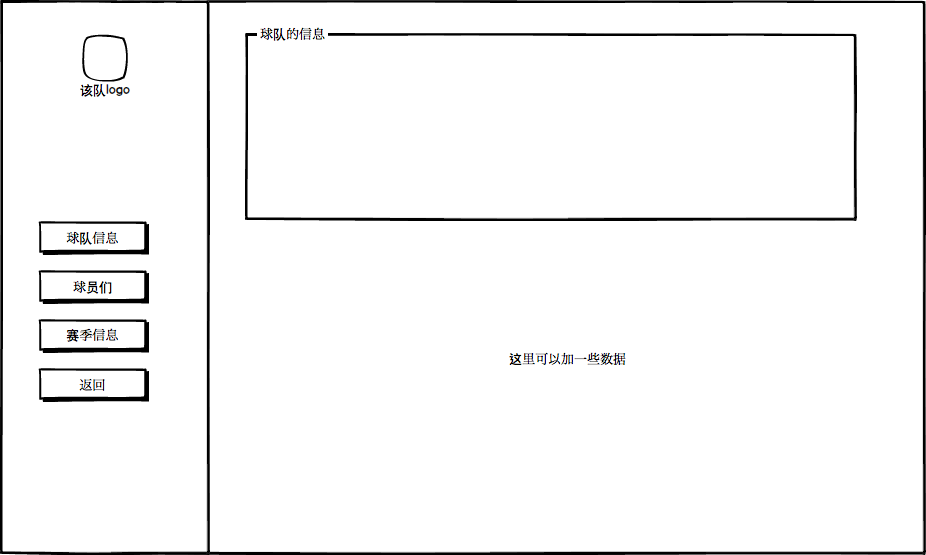
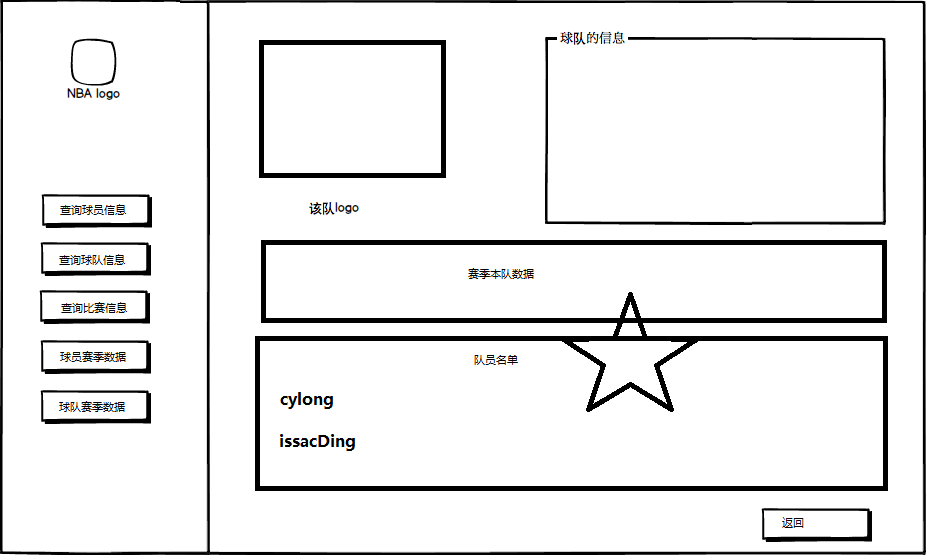
web原型

diff --git a/html原型/gameInfo_detail.html b/html原型/gameInfo_detail.html
@@ -1,0 +1,22 @@
+<!DOCTYPE html PUBLIC "-//W3C//DTD XHTML 1.0 Transitional//EN" "http://www.w3.org/TR/xhtml1/DTD/xhtml1-transitional.dtd">
+<html xmlns="http://www.w3.org/1999/xhtml">
+<head>
+<meta http-equiv="Content-Type" content="text/html; charset=utf-8" />
+<title>无标题文档</title>
+</head>
+
+<body>
+<img src="../图/具体比赛信息.png" width="926" height="555" usemap="#Map" border="0" />
+<map name="Map" id="Map">
+  <area shape="rect" coords="753,503,888,547" href="javascript:history.go(-1)" target="_self" />
+  <area shape="rect" coords="238,23,365,63" href="teamInfo_detail.html" />
+  <area shape="rect" coords="264,302,388,352" href="teamInfo_detail.html" />
+  <area shape="rect" coords="231,83,328,150" href="playerInfo_detail.html" />
+  <area shape="rect" coords="34,188,170,231" href="playerInfo_index.html" />
+  <area shape="rect" coords="32,238,162,280" href="teamInfo_index.html" />
+  <area shape="rect" coords="36,285,170,331" href="gameInfo_index.html" />
+  <area shape="rect" coords="31,338,159,377" href="playerSeason.html" />
+  <area shape="rect" coords="37,385,179,433" href="teamSeason.html" />
+</map>
+</body>
+</html>

diff --git a/html原型/teamInfo_detail.html b/html原型/teamInfo_detail.html
@@ -1,0 +1,20 @@
+<!DOCTYPE html PUBLIC "-//W3C//DTD XHTML 1.0 Transitional//EN" "http://www.w3.org/TR/xhtml1/DTD/xhtml1-transitional.dtd">
+<html xmlns="http://www.w3.org/1999/xhtml">
+<head>
+<meta http-equiv="Content-Type" content="text/html; charset=utf-8" />
+<title>无标题文档</title>
+</head>
+
+<body>
+<img src="../图/具体球队信息.png" width="926" height="555" usemap="#Map" border="0" />
+<map name="Map" id="Map">
+  <area shape="rect" coords="753,506,883,544" href="javascript:history.go(-1)" target="_self" />
+  <area shape="rect" coords="272,384,377,457" href="playerInfo_detail.html" />
+  <area shape="rect" coords="28,187,169,231" href="playerInfo_index.html" />
+  <area shape="rect" coords="29,234,168,279" href="teamInfo_index.html" />
+  <area shape="rect" coords="28,286,183,329" href="gameInfo_index.html" />
+  <area shape="rect" coords="32,338,175,380" href="playerSeason.html" />
+  <area shape="rect" coords="21,385,169,441" href="teamSeason.html" />
+</map>
+</body>
+</html>

diff --git a/html原型/playerInfo_detail.html b/html原型/playerInfo_detail.html
@@ -1,0 +1,19 @@
+<!DOCTYPE html PUBLIC "-//W3C//DTD XHTML 1.0 Transitional//EN" "http://www.w3.org/TR/xhtml1/DTD/xhtml1-transitional.dtd">
+<html xmlns="http://www.w3.org/1999/xhtml">
+<head>
+<meta http-equiv="Content-Type" content="text/html; charset=utf-8" />
+<title>无标题文档</title>
+</head>
+
+<body>
+<img src="../图/具体球员信息.png" width="926" height="555" usemap="#Map" border="0" />
+<map name="Map" id="Map">
+  <area shape="rect" coords="755,493,870,532" href="javascript:history.go(-1)" target="_self" />
+  <area shape="rect" coords="44,225,165,270" href="playerInfo_index.html" />
+  <area shape="rect" coords="41,276,164,321" href="teamInfo_index.html" />
+  <area shape="rect" coords="39,327,187,366" href="gameInfo_index.html" />
+  <area shape="rect" coords="37,375,173,418" href="playerSeason.html" />
+  <area shape="rect" coords="39,427,175,466" href="teamSeason.html" />
+</map>
+</body>
+</html>

diff --git a/html原型/gameInfo_index.html b/html原型/gameInfo_index.html
@@ -1,0 +1,19 @@
+<!DOCTYPE html PUBLIC "-//W3C//DTD XHTML 1.0 Transitional//EN" "http://www.w3.org/TR/xhtml1/DTD/xhtml1-transitional.dtd">
+<html xmlns="http://www.w3.org/1999/xhtml">
+<head>
+<meta http-equiv="Content-Type" content="text/html; charset=utf-8" />
+<title>无标题文档</title>
+</head>
+
+<body>
+<img src="../图/比赛信息.png" width="926" height="555" usemap="#Map" border="0" />
+<map name="Map" id="Map">
+  <area shape="rect" coords="219,144,844,306" href="gameInfo_detail.html" />
+  <area shape="rect" coords="32,191,164,235" href="playerInfo_index.html" />
+  <area shape="rect" coords="28,237,164,281" href="teamInfo_index.html" />
+  <area shape="rect" coords="28,286,166,335" href="gameInfo_index.html" />
+  <area shape="rect" coords="31,340,165,382" href="playerSeason.html" />
+  <area shape="rect" coords="32,385,161,432" href="teamSeason.html" />
+</map>
+</body>
+</html>

diff --git a/html原型/teamSeason.html b/html原型/teamSeason.html
@@ -1,0 +1,19 @@
+<!DOCTYPE html PUBLIC "-//W3C//DTD XHTML 1.0 Transitional//EN" "http://www.w3.org/TR/xhtml1/DTD/xhtml1-transitional.dtd">
+<html xmlns="http://www.w3.org/1999/xhtml">
+<head>
+<meta http-equiv="Content-Type" content="text/html; charset=utf-8" />
+<title>无标题文档</title>
+</head>
+
+<body>
+<img src="../图/球队数据.png" width="926" height="555" usemap="#Map" border="0" />
+<map name="Map" id="Map">
+  <area shape="rect" coords="243,140,811,272" href="teamInfo_detail.html" />
+  <area shape="rect" coords="28,186,179,232" href="playerInfo_index.html" />
+  <area shape="rect" coords="29,236,174,276" href="teamInfo_index.html" />
+  <area shape="rect" coords="22,283,173,329" href="gameInfo_index.html" />
+  <area shape="rect" coords="25,333,172,376" href="playerSeason.html" />
+  <area shape="rect" coords="32,384,184,431" href="teamSeason.html" />
+</map>
+</body>
+</html>

diff --git a/html原型/teamInfo_index.html b/html原型/teamInfo_index.html
@@ -1,0 +1,19 @@
+<!DOCTYPE html PUBLIC "-//W3C//DTD XHTML 1.0 Transitional//EN" "http://www.w3.org/TR/xhtml1/DTD/xhtml1-transitional.dtd">
+<html xmlns="http://www.w3.org/1999/xhtml">
+<head>
+<meta http-equiv="Content-Type" content="text/html; charset=utf-8" />
+<title>无标题文档</title>
+</head>
+
+<body>
+<img src="../图/球队信息.png" width="926" height="555" usemap="#Map" border="0" />
+<map name="Map" id="Map">
+  <area shape="rect" coords="220,68,466,131" href="teamInfo_detail.html" />
+  <area shape="rect" coords="33,188,166,232" href="playerInfo_index.html" />
+  <area shape="rect" coords="34,237,169,281" href="teamInfo_index.html" />
+  <area shape="rect" coords="31,289,167,331" href="gameInfo_index.html" />
+  <area shape="rect" coords="32,339,169,380" href="playerSeason.html" />
+  <area shape="rect" coords="29,385,167,436" href="teamSeason.html" />
+</map>
+</body>
+</html>

diff --git a/html原型/index.html b/html原型/index.html
@@ -1,0 +1,24 @@
+<!DOCTYPE html PUBLIC "-//W3C//DTD XHTML 1.0 Transitional//EN" "http://www.w3.org/TR/xhtml1/DTD/xhtml1-transitional.dtd">
+<html xmlns="http://www.w3.org/1999/xhtml">
+<head>
+<meta http-equiv="Content-Type" content="text/html; charset=utf-8" />
+<title>无标题文档</title>
+</head>
+
+<body>
+<table width="1104" height="553" border="1">
+  <tr>
+    <td width="228" height="118">&nbsp;</td>
+    <td width="860">&nbsp;</td>
+  </tr>
+  <tr>
+    <td height="427"><p><a href="playerInfo_index.html">查询球员信息</a></p>
+    <p><a href="teamInfo_index.html">查询球队信息</a></p>
+    <p><a href="gameInfo_index.html">查询比赛信息</a></p>
+    <p><a href="playerSeason.html">球员赛季数据</a></p>
+    <p><a href="teamSeason.html">球队赛季数据</a></p></td>
+    <td>&nbsp;</td>
+  </tr>
+</table>
+</body>
+</html>

diff --git a/html原型/playerSeason.html b/html原型/playerSeason.html
@@ -1,0 +1,18 @@
+<!DOCTYPE html PUBLIC "-//W3C//DTD XHTML 1.0 Transitional//EN" "http://www.w3.org/TR/xhtml1/DTD/xhtml1-transitional.dtd">
+<html xmlns="http://www.w3.org/1999/xhtml">
+<head>
+<meta http-equiv="Content-Type" content="text/html; charset=utf-8" />
+<title>无标题文档</title>
+</head>
+
+<body>
+<img src="../图/球员数据.png" width="926" height="555" usemap="#Map" border="0" />
+<map name="Map" id="Map">
+  <area shape="rect" coords="244,218,827,347" href="playerInfo_detail.html" />
+  <area shape="rect" coords="31,185,166,227" href="playerInfo_index.html" />
+  <area shape="rect" coords="33,236,186,277" href="teamInfo_index.html" />
+  <area shape="rect" coords="33,286,175,332" href="gameInfo_index.html" />
+  <area shape="rect" coords="32,334,164,374" href="playerSeason.html" />
+</map>
+</body>
+</html>

diff --git a/html原型/playerInfo_index.html b/html原型/playerInfo_index.html
@@ -1,0 +1,18 @@
+<!DOCTYPE html PUBLIC "-//W3C//DTD XHTML 1.0 Transitional//EN" "http://www.w3.org/TR/xhtml1/DTD/xhtml1-transitional.dtd">
+<html xmlns="http://www.w3.org/1999/xhtml">
+<head>
+<meta http-equiv="Content-Type" content="text/html; charset=utf-8" />
+<title>无标题文档</title>
+</head>
+
+<body>
+<img src="../图/球员信息.png" width="926" height="555" usemap="#Map" border="0" />
+<map name="Map" id="Map">
+  <area shape="rect" coords="347,336,488,372" href="playerInfo_detail.html" />
+  <area shape="rect" coords="31,233,155,275" href="teamInfo_index.html" />
+  <area shape="rect" coords="30,285,169,326" href="gameInfo_index.html" />
+  <area shape="rect" coords="35,332,171,380" href="playerSeason.html" />
+  <area shape="rect" coords="33,382,160,433" href="teamSeason.html" />
+</map>
+</body>
+</html>
